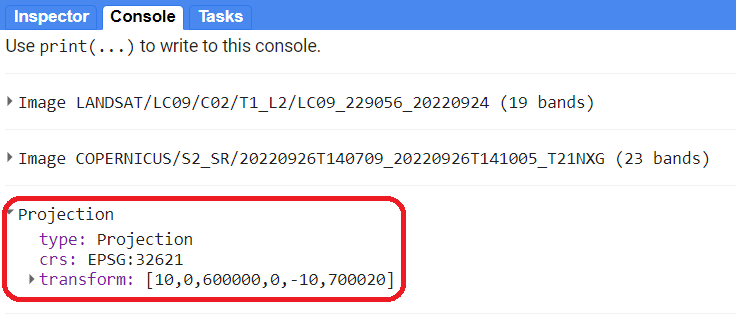
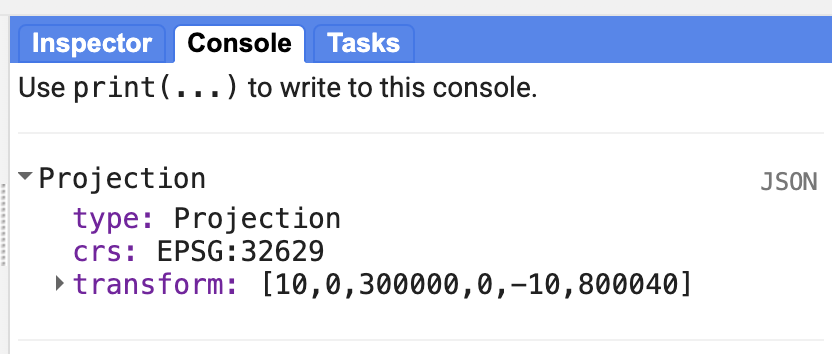
gee 2 updates

Changed region(s): [[0.0, 0.0, 1.0, 0.3679], [0.0, 0.4528, 1.0, 0.9623], [0.25, 0.1981, 0.2812, 0.2264]]

diff --git a/07_intro_GEE/02_imagery.md b/07_intro_GEE/02_imagery.md
@@ -447,11 +447,10 @@ You can print the image’s projection and scale. Since different bands may have
 var projection = firstImageS2.select('B2').projection();
 print(projection);
 ```
-<font color=red> EDIT THE IMAGE BELOW. CHECK, EPSG:32621? </font>
 
-On the Console we see that the Sentinel-2 image is in the EPSG:32621 projection.
+On the Console we see that the Sentinel-2 image is in the EPSG:32629 projection.
 
-<img align="center" src="../images/intro-gee/fig48.png" vspace="10" width="500">
+<img align="center" src="../images/intro-gee/fig48.png" vspace="10" width="300">
 
 We can also print the image’s scale (spatial resolution). The `ee.Projection` object has a `nominalScale()` function that returns the linear scale in meters of the units of this projection, as measured at the point of true scale. The type of object that is returned is a Float number.
 
@@ -466,16 +465,13 @@ With this, we see on the Console that the scale is what we expected, 10 meters.
 
 The GEE API provides export functions that allow exporting an image in different ways: to Google Drive, as an EE Asset (not leaving the Earth Engine environment), and to Google Cloud. If we want to work with the image outside of GEE, we can use the `Export.image.toDrive` function.
 
-<font color=red> EDIT THE CODE IN THE FILE NAME BELOW </font>
-
-
 ```javascript
 Export.image.toDrive({
   image: firstImageS2.int16(),
   scale: 10,
   region: area,
   description: 'sentinel2image',
-  fileNamePrefix: 'S2 Monrovia 220926',
+  fileNamePrefix: 'S2 Monrovia 220329',
   maxPixels: 1e13
 })
 ```
@@ -493,14 +489,6 @@ Script "`1 Image Visualization - L9 & S2`" from the repository and folder `T3` o
 
 
 ## Publicly available datasets 
-
-### (e.g. forest change and fire alerts)
-
-Here's a concise section on publicly available datasets, focusing on forest change and fire alerts in GEE:
-
----
-
-## Publicly Available Datasets  
 
 Earth Engine also provides access to [numerous publicly available datasets](https://developers.google.com/earth-engine/datasets) that support environmental monitoring, including forest change and fire alerts. These datasets come from global satellite missions and scientific research initiatives, enabling rapid analysis and decision-making.
 
